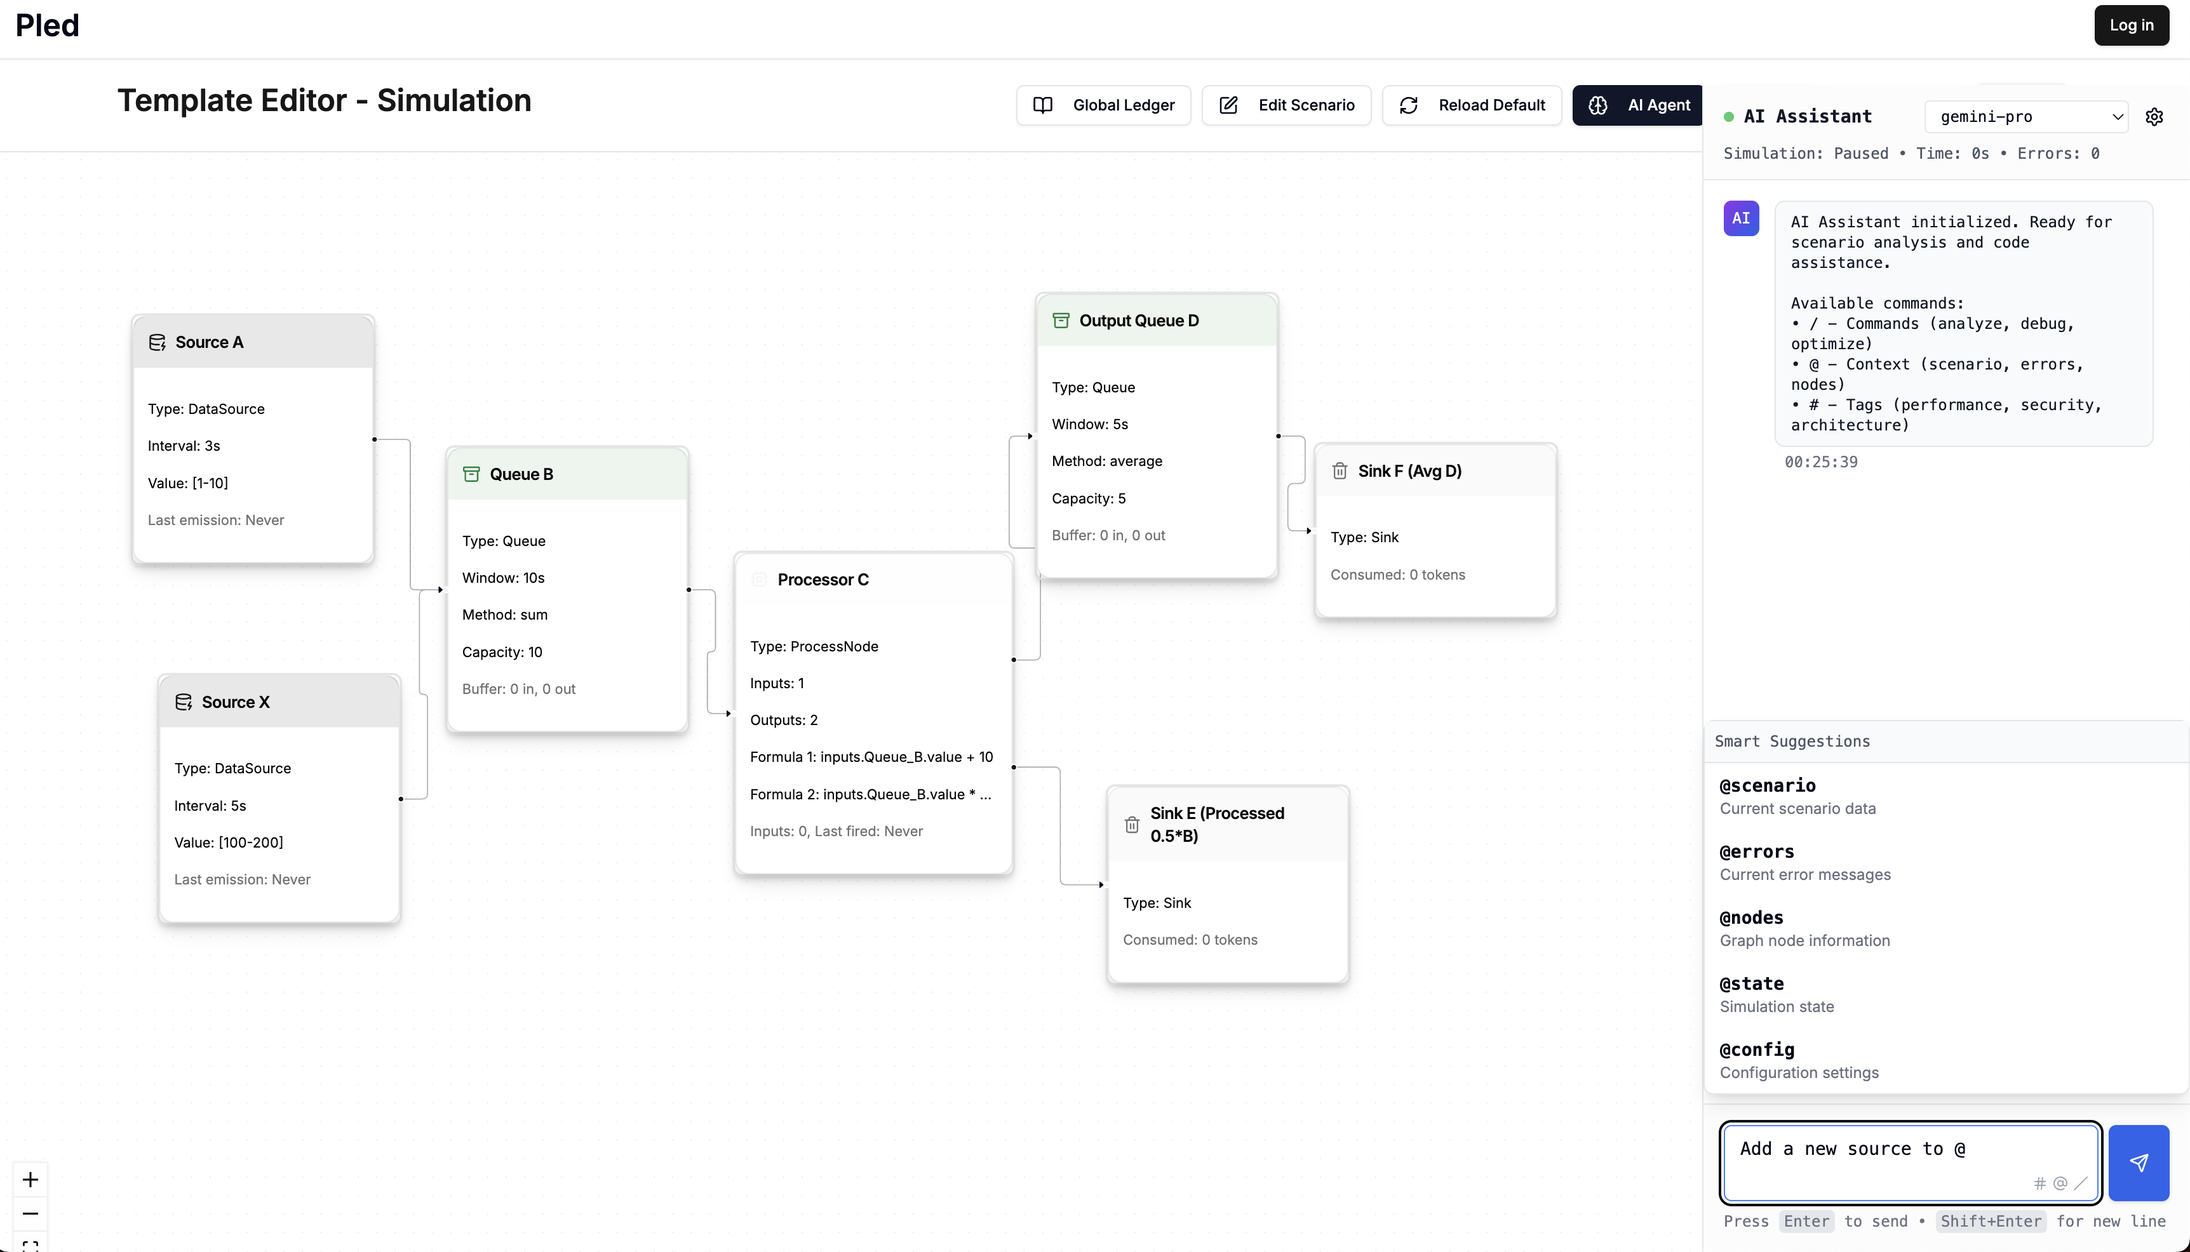
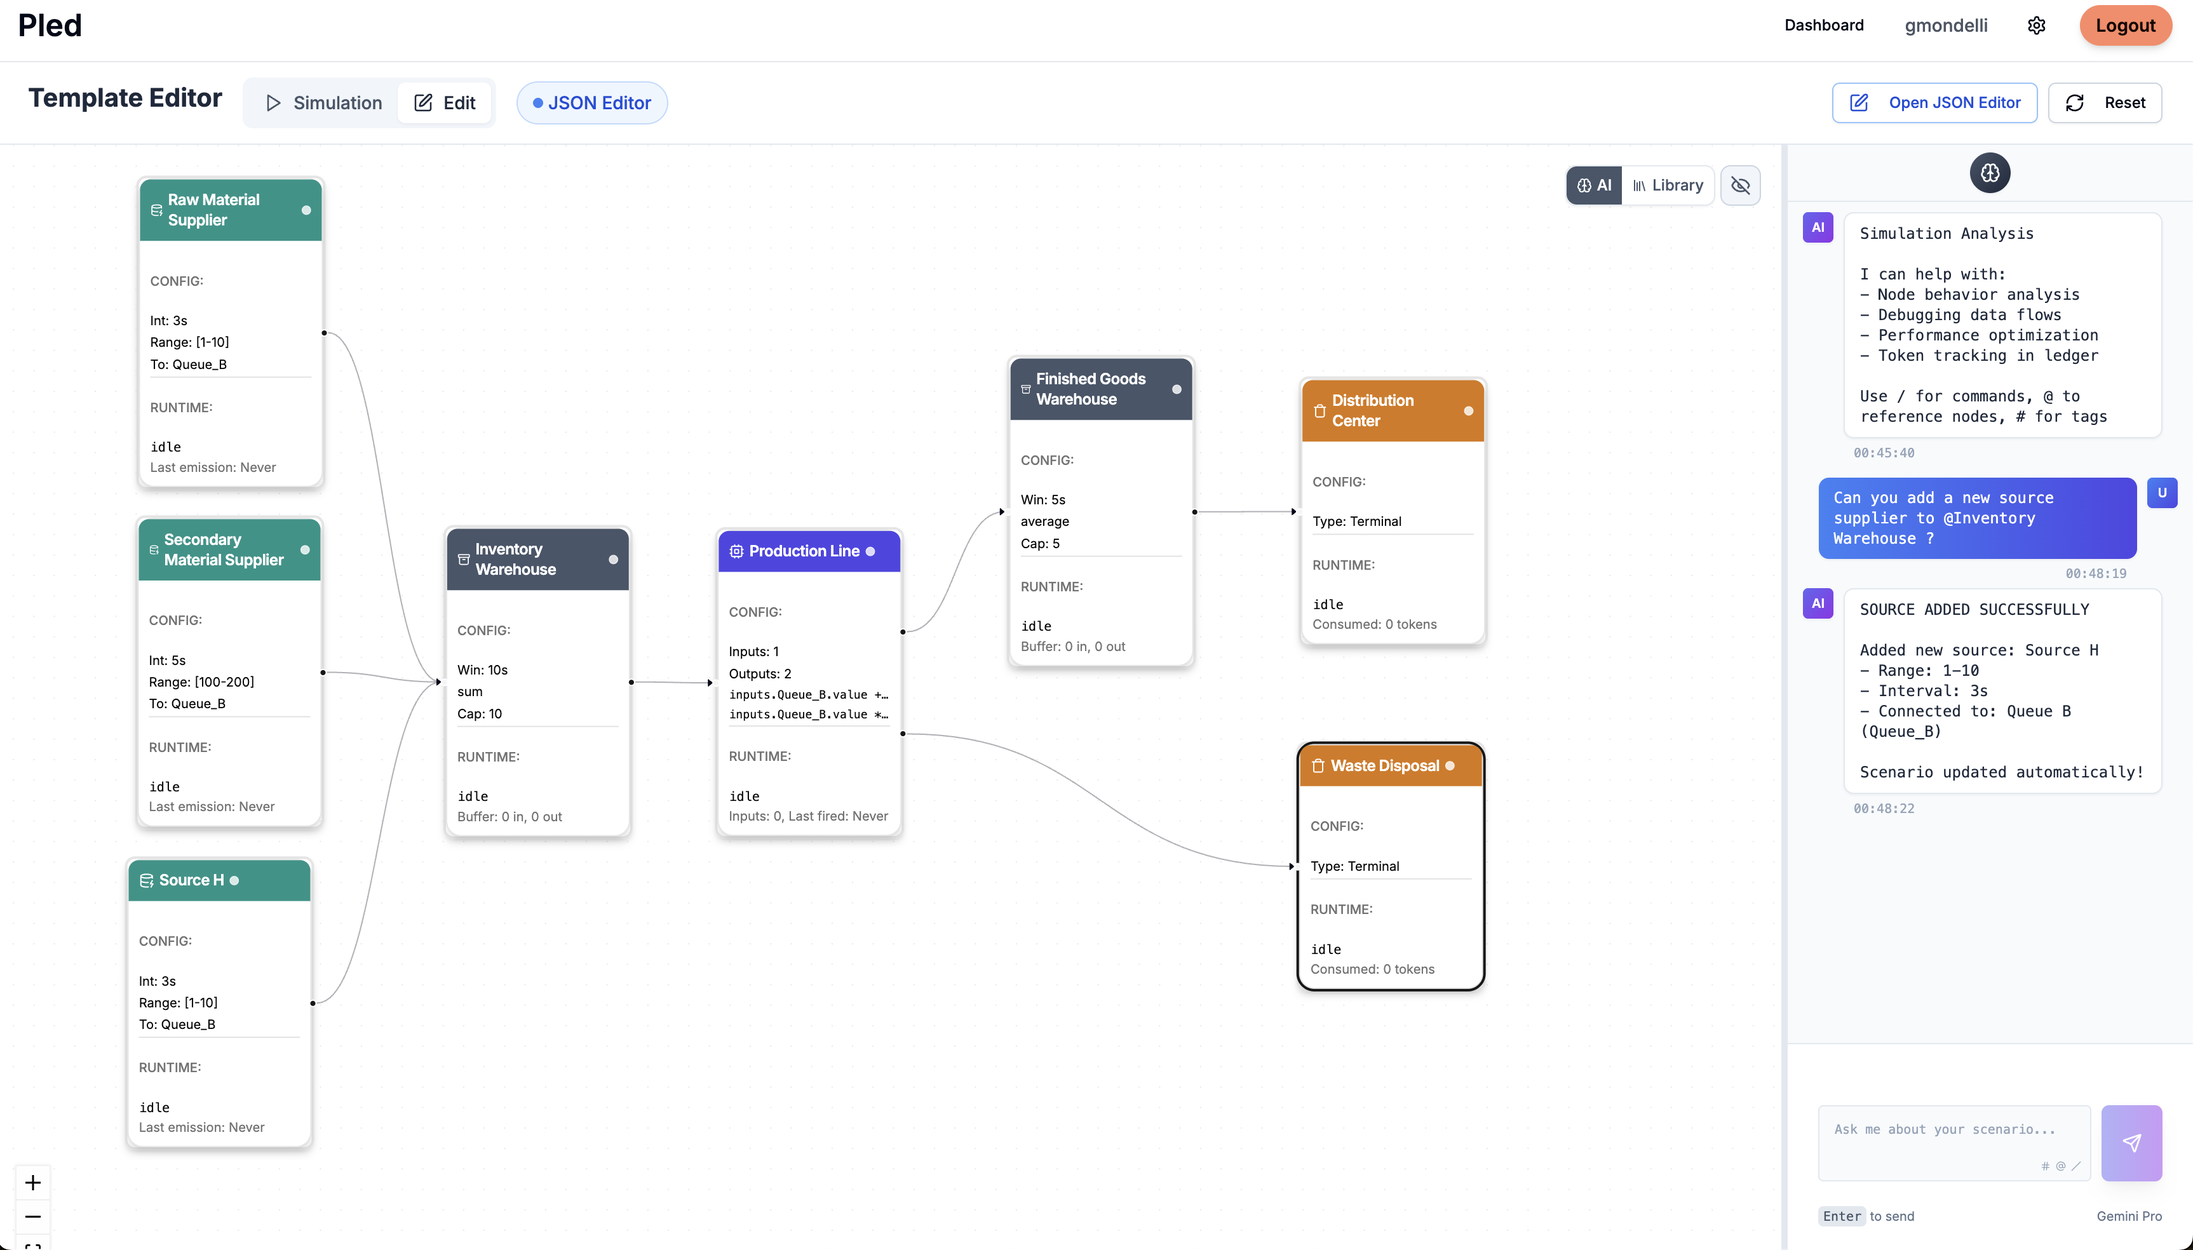
feat: Enhance TemplateEditorPage layout and improve IntegratedAIAssistant functionality with automatic JSON patch handling

diff --git a/packages/nextjs/components/ai/IntegratedAIAssistant.tsx b/packages/nextjs/components/ai/IntegratedAIAssistant.tsx
@@ -460,6 +460,52 @@ export default function IntegratedAIAssistant({ className, isEditMode = false, s
       const data = await response.json();
       let responseContent = data.message;
 
+      // Check if response contains JSON patch and apply it automatically
+      if (responseContent.includes('JSON Patch:') && scenarioContent && onScenarioUpdate) {
+        try {
+          // Extract JSON patch from response
+          const patchMatch = responseContent.match(/```json\s*(\[[\s\S]*?\])\s*```/);
+          if (patchMatch) {
+            const patches = JSON.parse(patchMatch[1]);
+            const scenario = JSON.parse(scenarioContent);
+            
+            // Apply each patch operation
+            patches.forEach((patch: any) => {
+              if (patch.op === 'replace' && patch.path && patch.value !== undefined) {
+                const pathParts = patch.path.split('/').filter((p: string) => p);
+                let current = scenario;
+                
+                // Navigate to the parent object
+                for (let i = 0; i < pathParts.length - 1; i++) {
+                  const part = pathParts[i];
+                  if (Array.isArray(current) && !isNaN(parseInt(part))) {
+                    current = current[parseInt(part)];
+                  } else {
+                    current = current[part];
+                  }
+                }
+                
+                // Apply the change
+                const finalKey = pathParts[pathParts.length - 1];
+                if (Array.isArray(current) && !isNaN(parseInt(finalKey))) {
+                  current[parseInt(finalKey)] = patch.value;
+                } else {
+                  current[finalKey] = patch.value;
+                }
+              }
+            });
+            
+            const updatedScenario = JSON.stringify(scenario, null, 2);
+            onScenarioUpdate(updatedScenario);
+            
+            responseContent = responseContent + '\n\n🎉 **SCENARIO UPDATED AUTOMATICALLY!**\nThe JSON patches have been applied to your diagram.';
+          }
+        } catch (error) {
+          console.error('Failed to apply JSON patches:', error);
+          responseContent = responseContent + '\n\n❌ **Error**: Failed to apply JSON patches automatically.';
+        }
+      }
+
       // Check if the user is asking to add/modify nodes and handle scenario updates
       const lowerInput = inputValue.toLowerCase();
       if ((lowerInput.includes('add') || lowerInput.includes('create') || lowerInput.includes('new')) && lowerInput.includes('source')) {
@@ -558,13 +604,33 @@ export default function IntegratedAIAssistant({ className, isEditMode = false, s
               displayName = nameMatch[1].trim();
             }
             
+            // Smart positioning to keep nodes within visible canvas
+            const canvasWidth = 1200; // Approximate canvas width
+            const canvasHeight = 800;  // Approximate canvas height
+            const nodeWidth = 200;     // Approximate node width
+            const nodeHeight = 150;    // Approximate node height
+            const margin = 50;         // Margin from edges
+            
+            // Calculate grid-based positioning
+            const maxNodesPerRow = Math.floor((canvasWidth - 2 * margin) / (nodeWidth + 20));
+            const currentNodeIndex = scenario.nodes.length;
+            const row = Math.floor(currentNodeIndex / maxNodesPerRow);
+            const col = currentNodeIndex % maxNodesPerRow;
+            
+            const x = margin + col * (nodeWidth + 20);
+            const y = margin + row * (nodeHeight + 20);
+            
+            // Ensure we don't exceed canvas bounds
+            const finalX = Math.min(x, canvasWidth - nodeWidth - margin);
+            const finalY = Math.min(y, canvasHeight - nodeHeight - margin);
+            
             const newNode = {
               nodeId: newNodeId,
               type: "DataSource",
               displayName: displayName,
               position: {
-                x: 50,
-                y: 100 + (scenario.nodes.length * 100)
+                x: finalX,
+                y: finalY
               },
               interval: interval,
               valueMin: minVal,
@@ -624,31 +690,33 @@ export default function IntegratedAIAssistant({ className, isEditMode = false, s
 
   return (
     <div className={cn(
-      "flex flex-col h-full bg-slate-50",
+      "flex flex-col h-full bg-slate-50 min-h-0",
       className
     )}>
       {/* Messages */}
-      <ScrollArea className="flex-1 px-3 py-2">
-        <div className="space-y-1">
-          {messages.map((message) => (
-            <MessageBubble key={message.id} message={message} />
-          ))}
-          {isLoading && (
-            <div className="flex justify-start mb-2">
-              <div className="flex items-center gap-2 px-3 py-2 bg-indigo-50 border border-indigo-200 rounded-lg text-xs">
-                <div className="w-4 h-4 bg-gradient-to-br from-indigo-500 to-purple-600 rounded flex items-center justify-center">
-                  <Loader2 className="h-2 w-2 animate-spin text-white" />
+      <div className="flex-1 min-h-0 overflow-hidden">
+        <ScrollArea className="h-full px-3 py-2">
+          <div className="space-y-1">
+            {messages.map((message) => (
+              <MessageBubble key={message.id} message={message} />
+            ))}
+            {isLoading && (
+              <div className="flex justify-start mb-2">
+                <div className="flex items-center gap-2 px-3 py-2 bg-indigo-50 border border-indigo-200 rounded-lg text-xs">
+                  <div className="w-4 h-4 bg-gradient-to-br from-indigo-500 to-purple-600 rounded flex items-center justify-center">
+                    <Loader2 className="h-2 w-2 animate-spin text-white" />
+                  </div>
+                  <span className="text-indigo-700 font-medium">Analyzing...</span>
                 </div>
-                <span className="text-indigo-700 font-medium">Analyzing...</span>
               </div>
-            </div>
-          )}
-        </div>
-        <div ref={messagesEndRef} />
-      </ScrollArea>
+            )}
+          </div>
+          <div ref={messagesEndRef} />
+        </ScrollArea>
+      </div>
 
-      {/* Enhanced Input Area */}
-      <div className="p-3 bg-white border-t border-slate-200 relative">
+      {/* Enhanced Input Area - Fixed at bottom */}
+      <div className="flex-shrink-0 p-6 bg-white border-t border-slate-200 relative" style={{ minHeight: '220px', paddingBottom: '24px' }}>
         <CommandSuggestions
           input={inputValue}
           onSelect={(suggestion) => {
@@ -663,7 +731,7 @@ export default function IntegratedAIAssistant({ className, isEditMode = false, s
           }}
         />
         
-        <div className="flex gap-2">
+        <div className="flex gap-2 mb-5 mt-6">
           <div className="flex-1 relative">
             <Textarea
               ref={textareaRef}
@@ -671,7 +739,7 @@ export default function IntegratedAIAssistant({ className, isEditMode = false, s
               value={inputValue}
               onChange={(e) => setInputValue(e.target.value)}
               onKeyDown={handleKeyDown}
-              className="min-h-[60px] max-h-[80px] resize-none text-xs font-mono bg-slate-50 border-slate-200 focus:border-indigo-300 focus:ring-indigo-200 rounded"
+              className="min-h-[60px] max-h-[80px] resize-none text-[11px] font-mono bg-slate-50 border-slate-200 focus:border-indigo-300 focus:ring-indigo-200 rounded placeholder:text-[10px] placeholder:text-slate-400"
               disabled={isLoading}
             />
             <div className="absolute bottom-2 right-2 flex items-center gap-1 text-[10px] text-slate-400">
@@ -683,7 +751,7 @@ export default function IntegratedAIAssistant({ className, isEditMode = false, s
           <Button 
             onClick={handleSendMessage}
             disabled={!inputValue.trim() || isLoading}
-            className="self-end h-[60px] bg-gradient-to-r from-indigo-500 to-purple-600 hover:from-indigo-600 hover:to-purple-700 text-white font-medium shadow-lg"
+            className="self-end h-[60px] bg-gradient-to-r from-indigo-500 to-purple-600 hover:from-indigo-600 hover:to-purple-700 text-white font-medium shadow-lg flex-shrink-0"
           >
             {isLoading ? (
               <Loader2 className="h-3 w-3 animate-spin" />
@@ -693,7 +761,7 @@ export default function IntegratedAIAssistant({ className, isEditMode = false, s
           </Button>
         </div>
         
-        <div className="text-[10px] text-slate-500 mt-2 flex items-center justify-between">
+        <div className="text-[10px] text-slate-500 mt-5 flex items-center justify-between flex-shrink-0 mb-6">
           <div>
             <kbd className="px-1 py-0.5 bg-slate-200 rounded text-slate-600">Enter</kbd> to send
           </div>

diff --git a/packages/nextjs/app/template-editor/page.tsx b/packages/nextjs/app/template-editor/page.tsx
@@ -350,9 +350,9 @@ export default function TemplateEditorPage() {
         </div>
       </header>
 
-      <main className="flex-1 flex overflow-hidden min-h-0">
+      <main className="flex-1 flex overflow-hidden min-h-0" style={{ height: 'calc(100vh - 80px)' }}>
         {/* Graph Visualization Area */}
-        <div className="flex-grow transition-all duration-300 relative bg-white">
+        <div className="flex-grow transition-all duration-300 relative bg-white overflow-hidden">
           {errorMessages.length > 0 && (
             <div className="absolute top-4 left-4 z-10 bg-red-50 border border-red-200 text-red-800 p-4 rounded-lg shadow-lg max-w-md">
               <div className="flex items-center mb-2">
@@ -435,8 +435,12 @@ export default function TemplateEditorPage() {
         {/* Side Panel (AI Assistant or Node Library) */}
         {isAIPanelVisible && (
           <div 
-            className="border-l border-slate-200 bg-white flex flex-col"
-            style={{ width: `${aiPanelWidth}px` }}
+            className="border-l border-slate-200 bg-white flex flex-col min-h-0"
+            style={{ 
+              width: `${aiPanelWidth}px`,
+              minWidth: `${aiPanelWidth}px`,
+              maxWidth: `${aiPanelWidth}px`
+            }}
           >
             {sidePanelMode === 'ai' ? (
               <>
@@ -448,25 +452,26 @@ export default function TemplateEditorPage() {
                   </div>
                 </div>
                 
-                <IntegratedAIAssistant 
-                  className="flex-1" 
-                  isEditMode={isEditMode}
-                  scenarioContent={defaultScenarioContent}
-                  onScenarioUpdate={(newScenario) => {
-                    setDefaultScenarioContent(newScenario);
-                    try {
-                      const parsedScenario = JSON.parse(newScenario);
-                      loadScenario(parsedScenario);
-                      toast({ title: "Success", description: "Scenario updated automatically by AI" });
-                    } catch (error) {
-                      toast({ 
-                        variant: "destructive", 
-                        title: "JSON Error", 
-                        description: "AI generated invalid JSON" 
-                      });
-                    }
-                  }}
-                />
+                <div className="flex-1 min-h-0 flex flex-col">
+                  <IntegratedAIAssistant 
+                    className="flex-1 min-h-0" 
+                    isEditMode={isEditMode}
+                    scenarioContent={scenario ? JSON.stringify(scenario, null, 2) : defaultScenarioContent}
+                    onScenarioUpdate={(newScenario) => {
+                      try {
+                        const parsedScenario = JSON.parse(newScenario);
+                        loadScenario(parsedScenario);
+                        toast({ title: "Success", description: "Scenario updated automatically by AI" });
+                      } catch (error) {
+                        toast({ 
+                          variant: "destructive", 
+                          title: "JSON Error", 
+                          description: "AI generated invalid JSON" 
+                        });
+                      }
+                    }}
+                  />
+                </div>
               </>
             ) : (
               <NodeLibraryPanel 

diff --git a/packages/nextjs/lib/gemini.ts b/packages/nextjs/lib/gemini.ts
@@ -42,6 +42,18 @@ export async function generateResponse(
     // Create context-aware prompt
   const contextPrompt = `You are an expert assistant for editing a JSON workflow scenario. Your job is to propose precise, schema-valid changes only—no hand-wavy prose, no accidental renames, and no wrong connections. Be deterministic.
 
+You can handle various types of requests:
+- Adding new nodes (DataSource, Queue, ProcessNode, Sink)
+- Modifying existing nodes (rename, change parameters)
+- Bulk operations (rename all nodes with a theme/domain)
+- Connecting/disconnecting nodes
+
+For bulk renaming requests like "rename all nodes for supply chain" or "make this a supply chain process", you should:
+1. Understand the existing node structure from the current scenario
+2. Propose appropriate names that fit the domain while maintaining the flow logic
+3. Use JSON patches to rename displayName fields for all nodes
+4. Keep nodeIds unchanged to preserve connections
+
 SCENARIO PROTOCOL (authoritative constraints):
 - Scenario shape:
   {
@@ -80,19 +92,30 @@ EDITING PRINCIPLES:
 - Validate connections: destinationNodeId must refer to an existing node. For DataSource, destination should typically be a Queue (unless user specifies otherwise).
 - Do not fabricate or change formulas in ProcessNode unless asked. Do not change positions unless asked.
 - Keep naming consistent and human-friendly (Title Case for displayName; correct obvious typos and casing; never include instruction phrases like "range 2-20" in displayName).
+- When adding new nodes, use smart positioning to keep them within visible canvas bounds (approximately 1200x800px). Position new nodes in a grid layout starting from (50, 50) with 220px spacing between columns and 170px spacing between rows.
 
 OUTPUT FORMAT (concise and actionable; do NOT claim that you updated anything):
 1) Summary: one line of what you changed.
 2) JSON Patch (RFC 6902) applying minimal changes to the CURRENT scenario.
 3) Validation checklist: bullet list confirming schema and connection validity.
 
-MINIMAL EXAMPLE:
+EXAMPLES:
+
+Adding a new node:
 Request: "Add a new source to @Output Queue D and make it like @Source A CALL IT soURCE F and range 2-20"
 Assuming unique matches: @Output Queue D -> nodeId "Queue_D"; @Source A -> DataSource_A
 Then produce:
 - Summary: Add DataSource_F ("Source F") with interval from Source A, range 2-20, destination -> Queue_D
 - JSON Patch: a single add op to /nodes/- with a DataSource node: { nodeId: "DataSource_F", displayName: "Source F", type: "DataSource", interval: <copied from A>, valueMin: 2, valueMax: 20, destinationNodeId: "Queue_D" }
 - Validation checklist: confirm nodeId uniqueness, destination exists, schema fields present and valid.
+
+Bulk renaming for a domain:
+Request: "Pretend this is a supply chain process, rename all nodes accordingly"
+Given scenario with nodes: Source A, Queue B, Process C, Sink D
+Then produce:
+- Summary: Renamed all nodes to reflect supply chain terminology
+- JSON Patch: multiple replace operations for /nodes/0/displayName, /nodes/1/displayName, etc. with names like "Raw Material Supplier", "Inventory Warehouse", "Production Line", "Distribution Center"
+- Validation checklist: all displayName fields updated, nodeIds preserved, connections maintained.
 
 Current scenario JSON (read-only context):
 ${JSON.stringify(scenarioContext.scenario, null, 2)}

diff --git a/packages/nextjs/components/graph/GraphVisualization.tsx b/packages/nextjs/components/graph/GraphVisualization.tsx
@@ -166,23 +166,28 @@ const GraphVisualization: React.FC = () => {
   // Initialize nodes and edges when scenario loads
   useEffect(() => {
     if (!scenario) return;
+    const initialNodes: Node<RFNodeData>[] = scenario.nodes.map((node: AnyNode) => {
+      const position = {
+        x: node.position?.x ?? 0,
+        y: node.position?.y ?? 0,
+      };
 
-
-    const initialNodes: Node<RFNodeData>[] = scenario.nodes.map((node: AnyNode) => ({
-      id: node.nodeId,
-      type: node.type,
-      position: node.position,
-      deletable: true,
-      data: {
-        label: node.displayName,
+      return {
+        id: node.nodeId,
         type: node.type,
-        config: node,
-        isActive: false,
-        details: "",
-      },
-      sourcePosition: Position.Right,
-      targetPosition: Position.Left,
-    }));
+        position,
+        deletable: true,
+        data: {
+          label: node.displayName,
+          type: node.type,
+          config: node,
+          isActive: false,
+          details: "",
+        },
+        sourcePosition: Position.Right,
+        targetPosition: Position.Left,
+      };
+    });
     setRfNodes(initialNodes);
 
     const initialEdges: Edge<RFEdgeData>[] = [];
@@ -424,7 +429,9 @@ const GraphVisualization: React.FC = () => {
 
   const onDragLeave = useCallback((event: React.DragEvent) => {
     // Only set drag over to false if we're leaving the main container
-    if (!event.currentTarget.contains(event.relatedTarget as Node)) {
+    const current = event.currentTarget as Element;
+    const related = event.relatedTarget as Element | null;
+    if (!related || !current.contains(related)) {
       setIsDragOver(false);
     }
   }, []);
